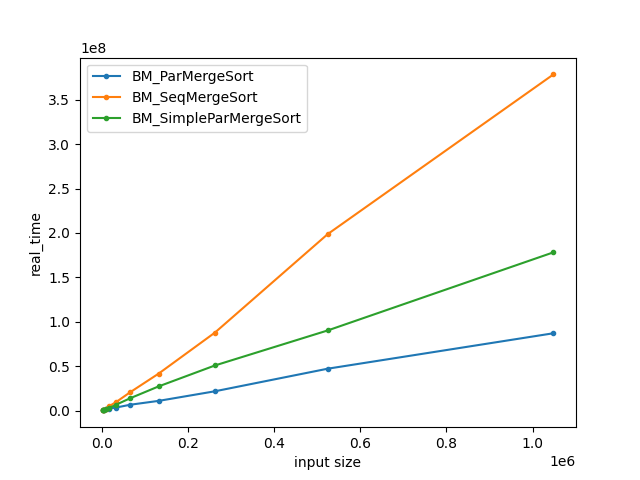
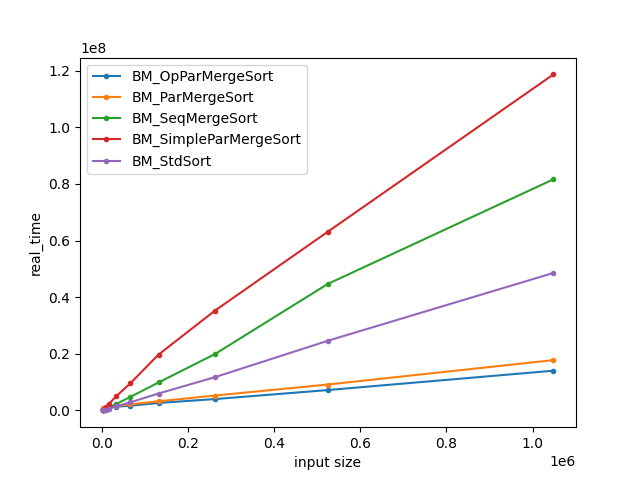
Update outputs and refactor code

diff --git a/merge_sort.cpp b/merge_sort.cpp
@@ -5,6 +5,13 @@
 
 #include "thread_pool.h"
 
+void create_random_vector(std::vector<int>& vec, int size = 1e6) {
+    vec.resize(size);
+    for (int i = 0; i < size; ++i) {
+        vec[i] = rand() % 10000;
+    }
+}
+
 template <typename T>
 void merge(std::vector<T>& vec, int left, int mid, int right) {
     int n1 = mid - left + 1;
@@ -56,6 +63,27 @@ void mergeSort(std::vector<T>& vec, int left, int right) {
 }
 
 template <typename T>
+void simple_parallel_merge_sort(std::vector<T>& vec, int left, int right) {
+    if (right - left <= 1000) {
+        mergeSort(vec, left, right);
+        return;
+    }
+
+    if (left < right) {
+        int mid = left + (right - left) / 2;
+
+        std::thread t1([&vec, left, mid]() {
+            simple_parallel_merge_sort(vec, left, mid);
+        });
+        simple_parallel_merge_sort(vec, mid + 1, right);
+
+        t1.join();
+
+        std::inplace_merge(vec.begin() + left, vec.begin() + mid + 1, vec.begin() + right + 1);
+    }
+}
+
+template <typename T>
 void parallelMergeSort(std::vector<T>& vec, int left, int right, int depth, ThreadPool& pool) {
     if (depth <= 0 || right - left <= 1000) {
         mergeSort(vec, left, right);
@@ -77,15 +105,9 @@ void parallelMergeSort(std::vector<T>& vec, int left, int right, int depth, Thre
     }
 }
 
-void create_random_vector(std::vector<int>& vec, int size = 1e6) {
-    vec.resize(size);
-    for (int i = 0; i < size; ++i) {
-        vec[i] = rand() % 10000;
-    }
-}
-
-void simple_parallel_merge_sort(std::vector<int>& vec, int left, int right) {
-    if (right - left <= 1000) {
+template <typename T>
+void opParallelMergeSort(std::vector<T>& vec, int left, int right, int depth, ThreadPool& pool) {
+    if (depth <= 0 || right - left <= 1000) {
         mergeSort(vec, left, right);
         return;
     }
@@ -93,14 +115,22 @@ void simple_parallel_merge_sort(std::vector<int>& vec, int left, int right) {
     if (left < right) {
         int mid = left + (right - left) / 2;
 
-        std::thread t1(simple_parallel_merge_sort, std::ref(vec), left, mid);
-        simple_parallel_merge_sort(vec, mid + 1, right);
+        auto future_left = pool.ExecuteTask([&vec, left, mid, depth, &pool]() {
+            parallelMergeSort(vec, left, mid, depth - 1, pool);
+            });
 
-        t1.join();
+        auto future_right = pool.ExecuteTask([&vec, left, mid, depth, &pool]() {
+            parallelMergeSort(vec, left, mid, depth - 1, pool);
+        });
+
+
+        future_left.wait();
+        future_right.wait();
 
         std::inplace_merge(vec.begin() + left, vec.begin() + mid + 1, vec.begin() + right + 1);
     }
 }
+
 
 static void BM_SeqMergeSort(benchmark::State& state) {
     for (auto _ : state) {
@@ -112,6 +142,33 @@ static void BM_SeqMergeSort(benchmark::State& state) {
         state.ResumeTiming();
 
         mergeSort(vec, 0, vec.size() - 1);
+    }
+    state.SetComplexityN(state.range(0));
+}
+
+static void BM_StdSort(benchmark::State& state) {
+    for (auto _ : state) {
+        state.PauseTiming();
+
+        std::vector<int> vec;
+        create_random_vector(vec, state.range(0));
+
+        state.ResumeTiming();
+
+        std::sort(vec.begin(), vec.end());
+    }
+    state.SetComplexityN(state.range(0));
+}
+
+static void BM_SimpleParMergeSort(benchmark::State& state) {
+    for (auto _ : state) {
+        state.PauseTiming();
+
+        std::vector<int> vec;
+        create_random_vector(vec, state.range(0));
+        state.ResumeTiming();
+
+        simple_parallel_merge_sort(vec, 0, vec.size() - 1);
     }
     state.SetComplexityN(state.range(0));
 }
@@ -130,21 +187,24 @@ static void BM_ParMergeSort(benchmark::State& state) {
     state.SetComplexityN(state.range(0));
 }
 
-static void BM_SimpleParMergeSort(benchmark::State& state) {
+static void BM_OpParMergeSort(benchmark::State& state) {
     for (auto _ : state) {
         state.PauseTiming();
 
         std::vector<int> vec;
         create_random_vector(vec, state.range(0));
+        ThreadPool pool(24);
         state.ResumeTiming();
 
-        simple_parallel_merge_sort(vec, 0, vec.size() - 1);
+        opParallelMergeSort(vec, 0, vec.size() - 1, 5, pool);
     }
     state.SetComplexityN(state.range(0));
 }
 
+BENCHMARK(BM_StdSort)->RangeMultiplier(2)->Range(1 << 10, 1 << 20)->Complexity(benchmark::oNLogN);
 BENCHMARK(BM_SeqMergeSort)->RangeMultiplier(2)->Range(1 << 10, 1 << 20)->Complexity(benchmark::oNLogN);
-BENCHMARK(BM_ParMergeSort)->RangeMultiplier(2)->Range(1 << 10, 1 << 20)->Complexity(benchmark::oNLogN);
 BENCHMARK(BM_SimpleParMergeSort)->RangeMultiplier(2)->Range(1 << 10, 1 << 20)->Complexity(benchmark::oNLogN);
+BENCHMARK(BM_ParMergeSort)->RangeMultiplier(2)->Range(1 << 10, 1 << 20)->Complexity(benchmark::oNLogN);
+BENCHMARK(BM_OpParMergeSort)->RangeMultiplier(2)->Range(1 << 10, 1 << 20)->Complexity(benchmark::oNLogN);
 
 BENCHMARK_MAIN();

diff --git a/README.md b/README.md
@@ -76,11 +76,14 @@ python3 plot.py -f benchmark.csv
 
 ---
 
-## Future Work
+## Group Members
 
-- [ ] Add quicksort-based variant
-- [ ] Adaptive load balancing across threads
-- [ ] Lock-free queue support for ThreadPool
+| Name              | Enrollment Number        |
+|-------------------|--------------------------|
+| Divyansh Jain     | 22114032                 |
+| Ishan Garg        |                          |
+| Sukrit Jindal     |                          |
+| Vyusti Singamsetti|                          |
 
 ---
 
